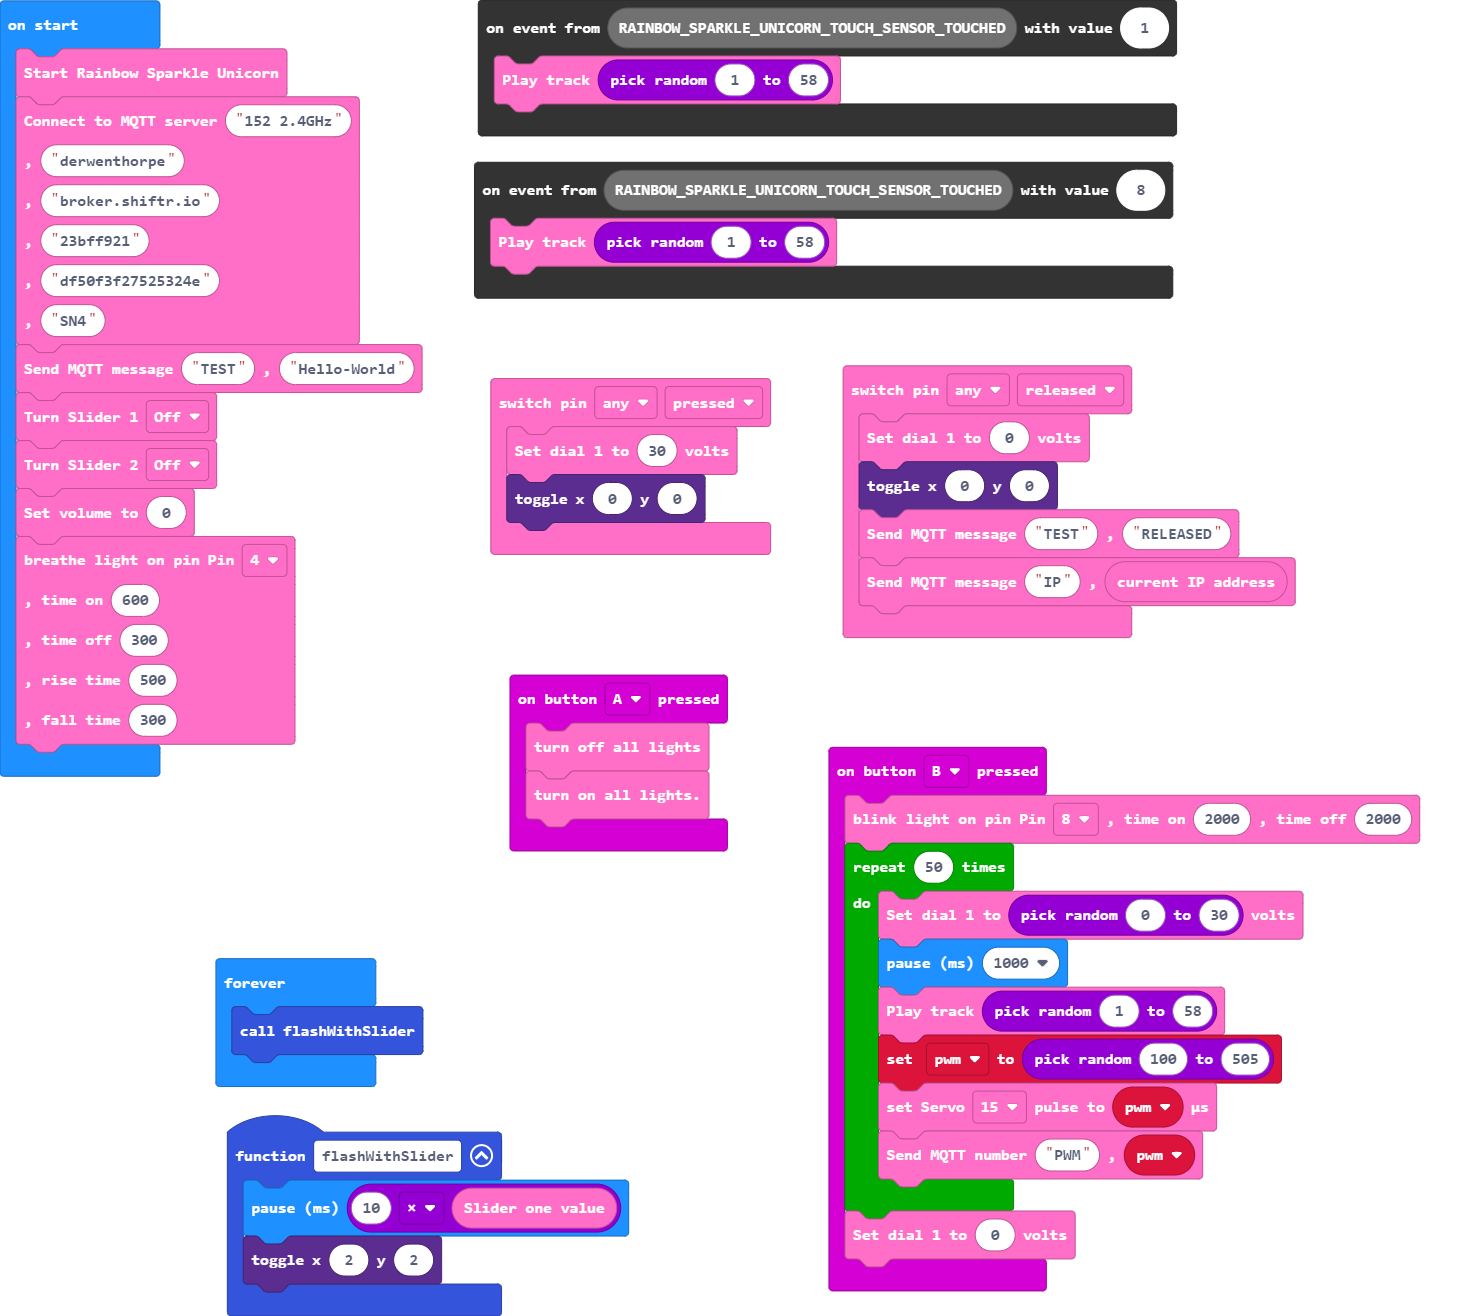
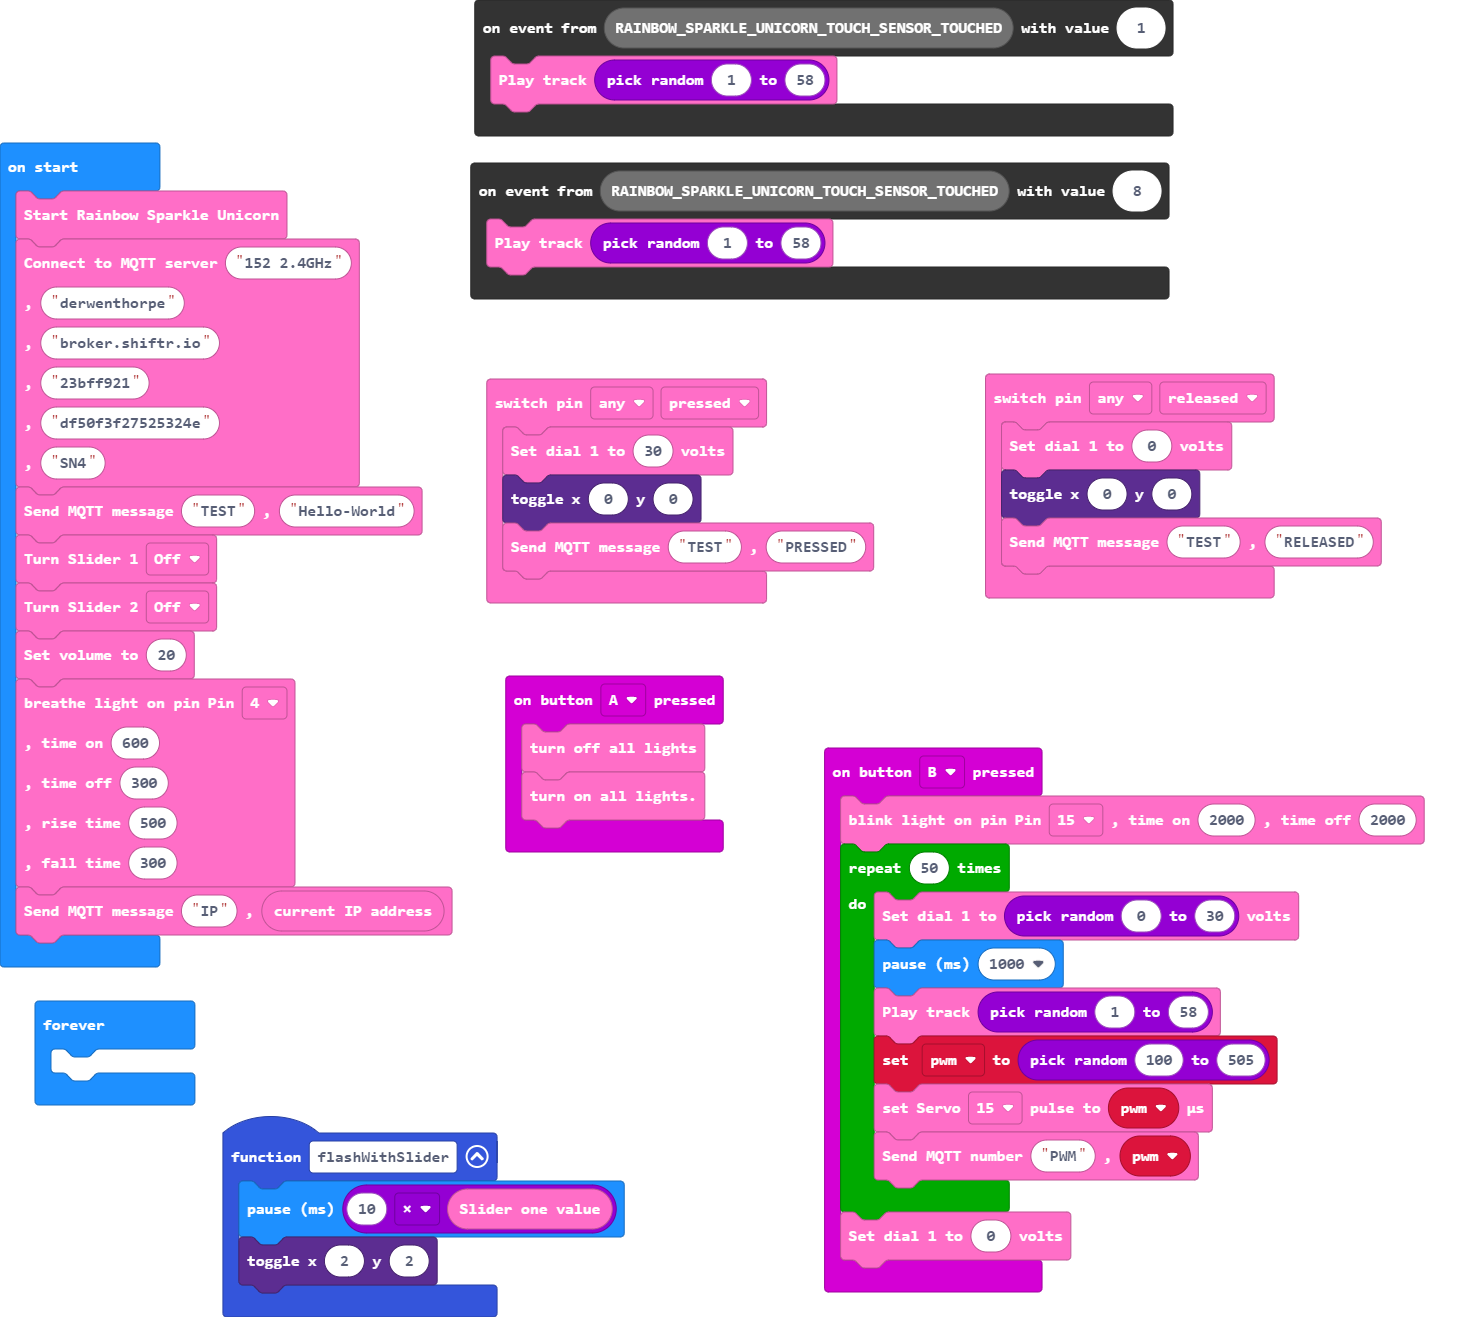
Update main.blocks, main.ts, constants.ts, UART.ts

diff --git a/main.ts b/main.ts
@@ -12,14 +12,13 @@ RainbowSparkleUnicorn.onSwitch(RainbowSparkleUnicorn.switchPins.Any, RainbowSpar
     RainbowSparkleUnicorn.dial1(0)
     led.toggle(0, 0)
     RainbowSparkleUnicorn.sendMQTTMessage("TEST", "RELEASED")
-    RainbowSparkleUnicorn.sendMQTTMessage("IP", RainbowSparkleUnicorn.IPAddress())
 })
 input.onButtonPressed(Button.A, function () {
     RainbowSparkleUnicorn.turnAllOff()
     RainbowSparkleUnicorn.turnAllOn()
 })
 input.onButtonPressed(Button.B, function () {
-    RainbowSparkleUnicorn.blink(Blinkable.Blinkable8, 2000, 2000)
+    RainbowSparkleUnicorn.blink(Blinkable.Blinkable15, 2000, 2000)
     for (let index = 0; index < 50; index++) {
         RainbowSparkleUnicorn.dial1(randint(0, 30))
         basic.pause(1000)
@@ -33,6 +32,7 @@ input.onButtonPressed(Button.B, function () {
 RainbowSparkleUnicorn.onSwitch(RainbowSparkleUnicorn.switchPins.Any, RainbowSparkleUnicorn.switchState.pressed, function () {
     RainbowSparkleUnicorn.dial1(30)
     led.toggle(0, 0)
+    RainbowSparkleUnicorn.sendMQTTMessage("TEST", "PRESSED")
 })
 let pwm = 0
 RainbowSparkleUnicorn.start()
@@ -47,7 +47,7 @@ RainbowSparkleUnicorn.connectToInterWeb(
 RainbowSparkleUnicorn.sendMQTTMessage("TEST", "Hello-World")
 RainbowSparkleUnicorn.turnSlider1(OnOff.OFF)
 RainbowSparkleUnicorn.turnSlider2(OnOff.OFF)
-RainbowSparkleUnicorn.setVolume(0)
+RainbowSparkleUnicorn.setVolume(20)
 RainbowSparkleUnicorn.breathe(
 Breathable.Breathable4,
 600,
@@ -55,6 +55,7 @@ Breathable.Breathable4,
 500,
 300
 )
+RainbowSparkleUnicorn.sendMQTTMessage("IP", RainbowSparkleUnicorn.IPAddress())
 basic.forever(function () {
-    flashWithSlider()
+	
 })

diff --git a/UART.ts b/UART.ts
@@ -90,6 +90,10 @@ namespace RainbowSparkleUnicorn {
 
             control.raiseEvent(RAINBOW_SPARKLE_UNICORN_MOTION_HALTED,pin);
        } 
+      else if (message.indexOf("G1") == 0) {
+//store ip address
+           MQTTIPAddress = message.split(",")[1];
+       }        
 
     }  catch(err) {   
      sendMessage(err.message);

diff --git a/constants.ts b/constants.ts
@@ -12,7 +12,7 @@ let RAINBOW_SPARKLE_UNICORN_SWITCH_RELEASED = 2156
 let RAINBOW_SPARKLE_UNICORN_MOTION_STOPPED = 2157
 let RAINBOW_SPARKLE_UNICORN_MOTION_HALTED = 2158
 
-let MQTTIPAddress:string = "0.0.0.0";
+let MQTTIPAddress: string = "0.0.0.0";
 
 let dfplayerBusy: boolean = false;
 let dfplayerVolume: number = 0;
